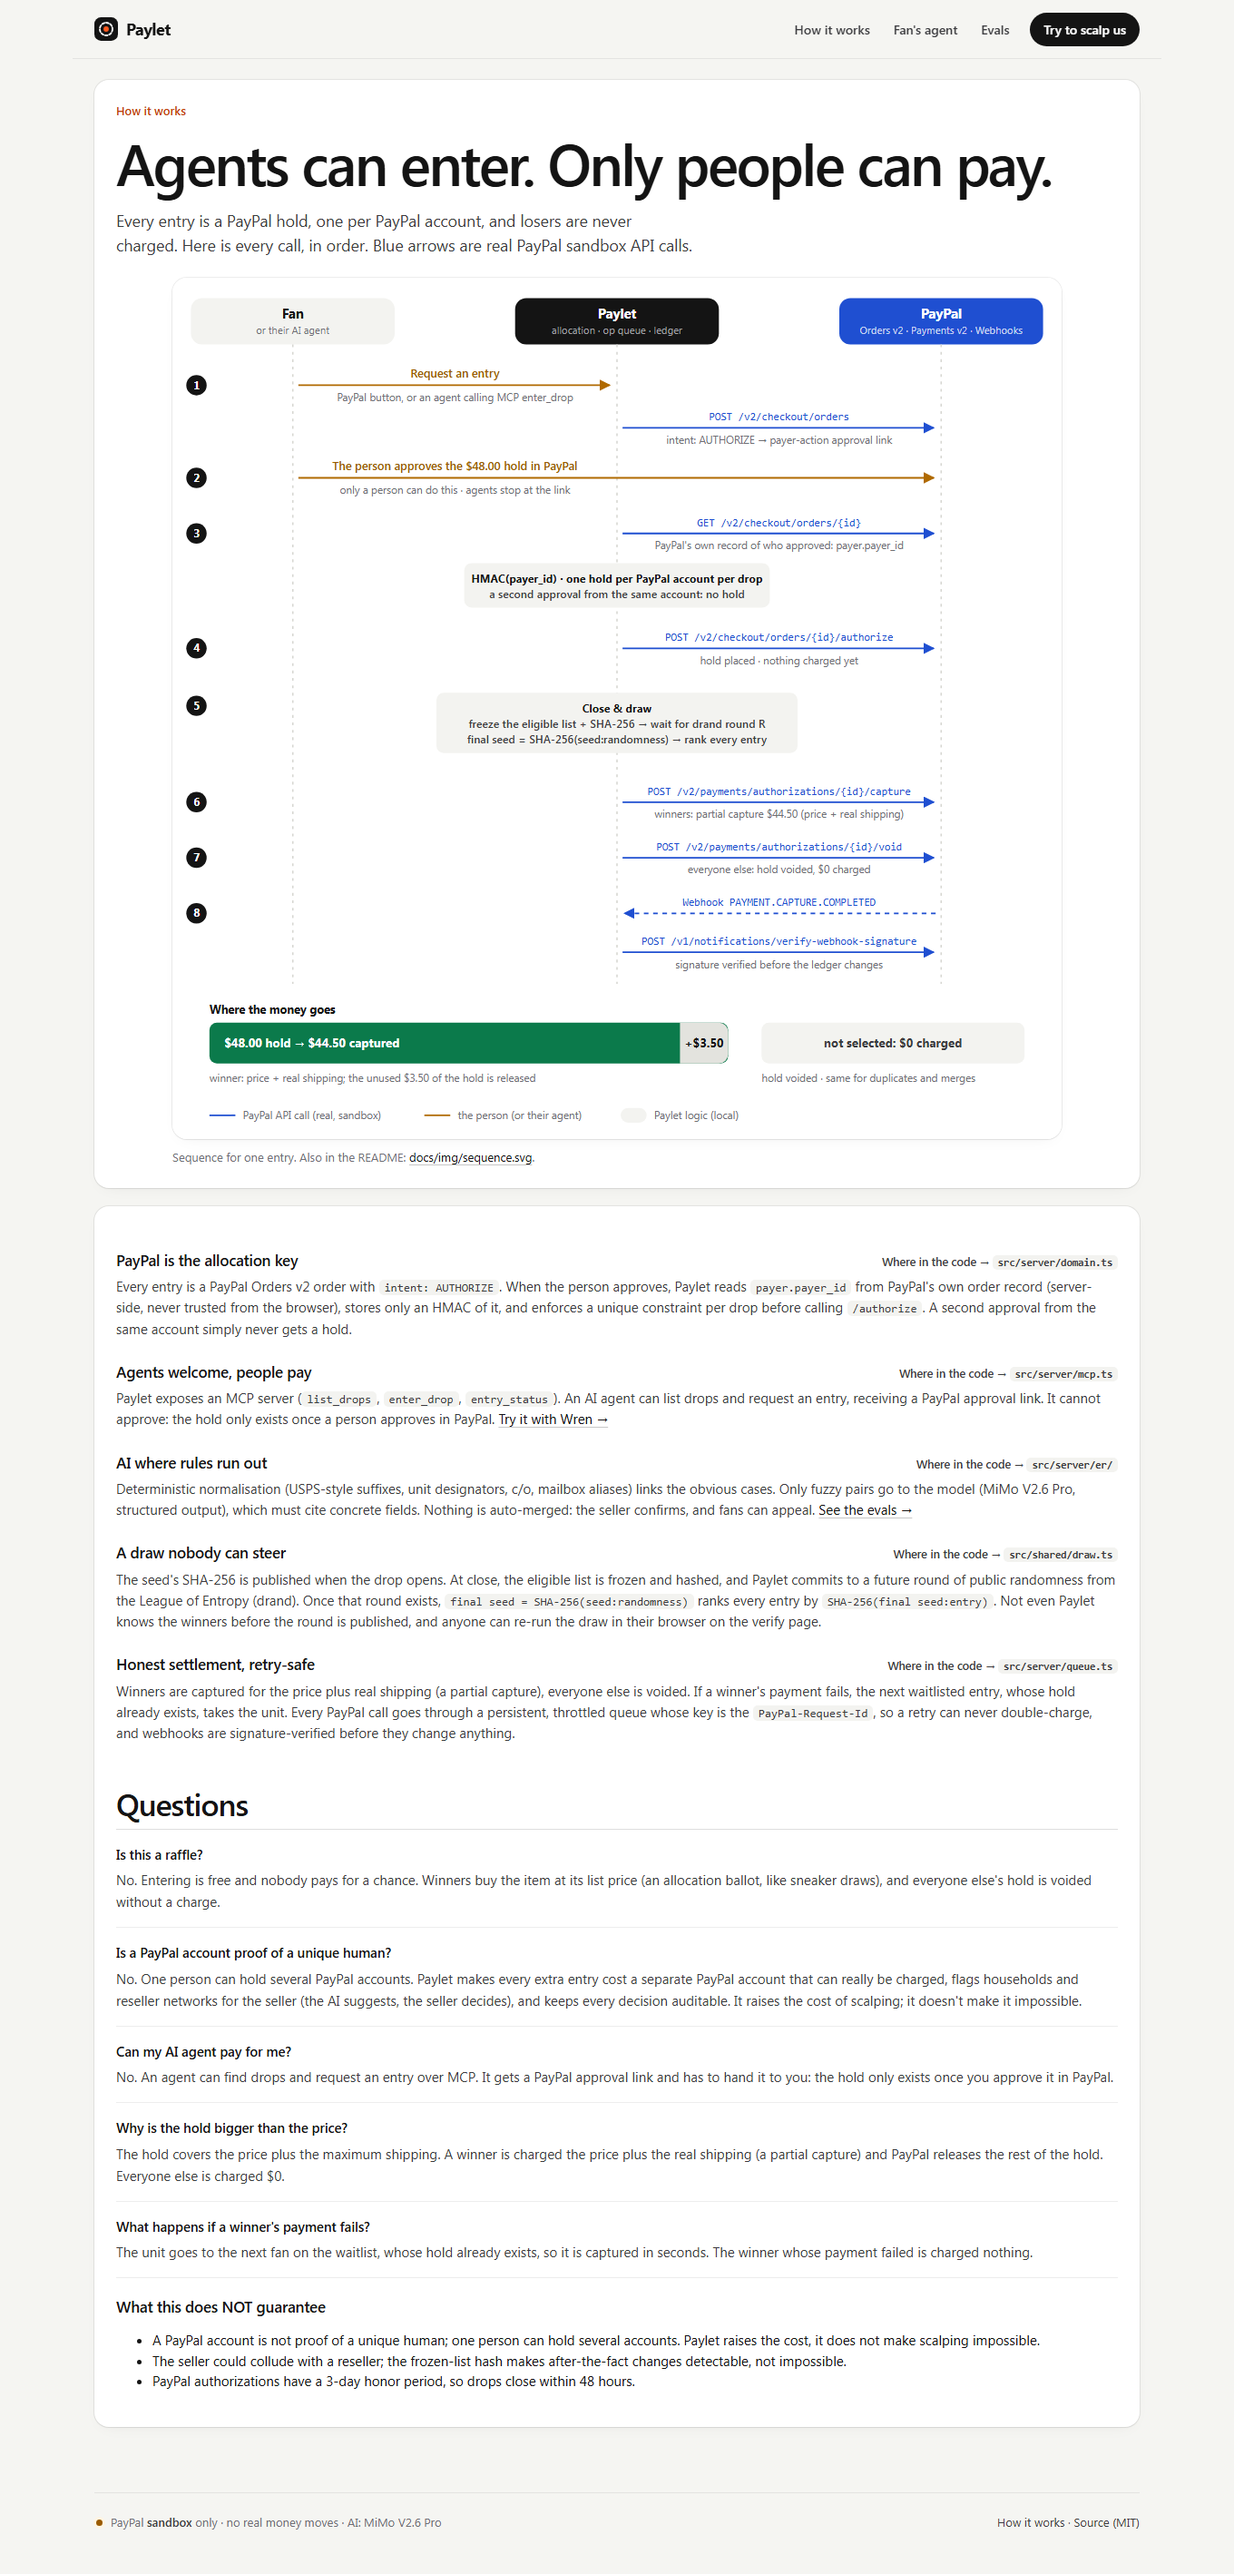
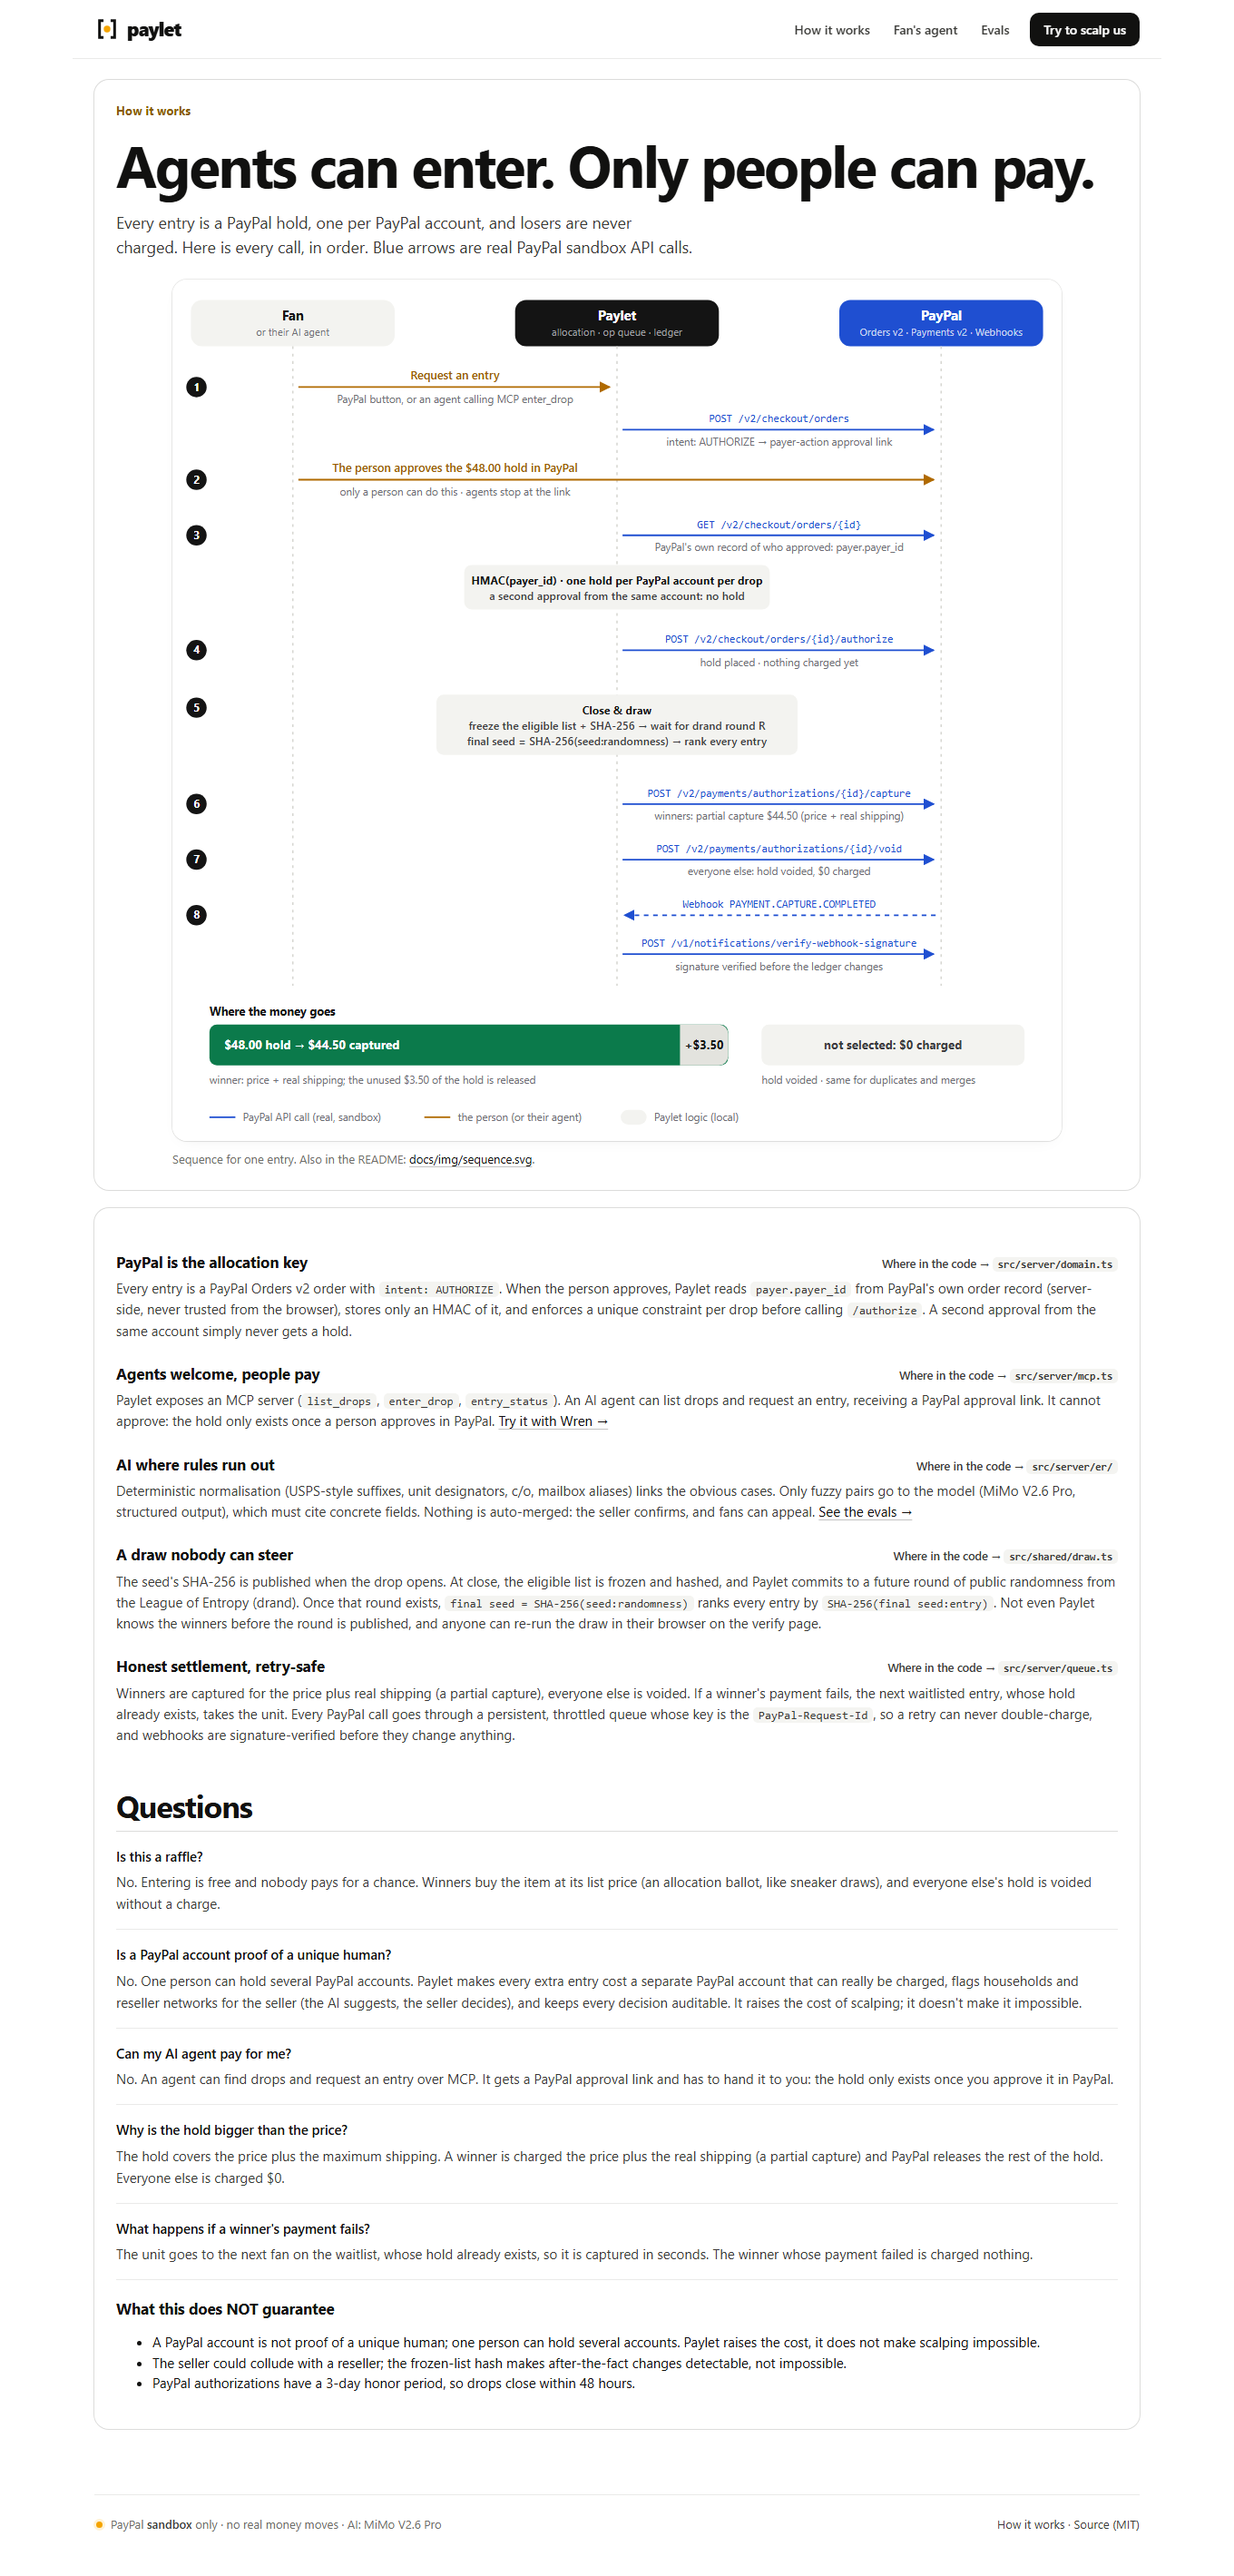
fix(wren): answer within 35 s - per-call timeout and a single attempt for the fan agent; a slow model falls back to the deterministic MCP entry like an outage does (and says so)
Also: video recorder (GPU window off-screen, fonts ready, logo intro, new outro) and editor (chapter labels, ducked music bed, -14 LUFS); gallery from the identity redesign

diff --git a/scripts/record-video.ts b/scripts/record-video.ts
@@ -29,6 +29,7 @@ const PAGE_SETUP = `(() => {
     document.documentElement.style.zoom = onPayPal ? "1.35" : "1.5";
     const s = document.createElement("style");
     s.textContent = \`
+      html{scrollbar-width:none}html::-webkit-scrollbar{display:none}
       #__cur{position:fixed;left:0;top:0;z-index:2147483647;pointer-events:none;will-change:transform;transform:translate(-200px,-200px)}
       #__cur svg{display:block;filter:drop-shadow(0 1px 2px rgba(0,0,0,.35))}
       .__rip{position:fixed;z-index:2147483646;pointer-events:none;width:34px;height:34px;margin:-17px 0 0 -17px;border-radius:50%;
@@ -137,54 +138,105 @@ async function glide(page: Page, px: number, ms: number) {
 
 async function open(page: Page, path: string, settle = 1200) {
   await page.goto(base + path, { waitUntil: "load" }).catch(() => undefined);
+  await page.evaluate("document.fonts.ready").catch(() => undefined);
   await page.mouse.move(W - 160, H / 2 + 40);
   await wait(settle);
 }
 
-const OUTRO = `<!doctype html><html><head><meta charset="utf-8">
-<link href="https://fonts.googleapis.com/css2?family=Inter:opsz,wght@14..32,400..700&display=swap" rel="stylesheet">
+const INTRO = `<!doctype html><html><head><meta charset="utf-8">
+<link href="https://fonts.googleapis.com/css2?family=Archivo:wdth,wght@62..125,100..900&family=JetBrains+Mono:wght@600&display=swap" rel="stylesheet">
 <style>
-  html,body{margin:0;height:100%;background:#f5f5f2;font-family:Inter,system-ui,sans-serif;color:#141414;-webkit-font-smoothing:antialiased}
+  html,body{margin:0;height:100%;background:#fff;font-family:Archivo,system-ui,sans-serif;color:#111110;-webkit-font-smoothing:antialiased}
   body{display:grid;place-items:center}
-  .c{display:grid;justify-items:center;gap:18px;text-align:center}
-  .m{opacity:0;transform:scale(.9);animation:in .9s cubic-bezier(.23,1,.32,1) .1s forwards}
-  .m circle.r{stroke-dasharray:3.4 2.35;animation:spin 6s linear infinite;transform-origin:16px 16px}
-  h1{margin:6px 0 0;font-size:64px;font-weight:650;letter-spacing:-.045em;line-height:1;opacity:0;transform:translateY(8px);animation:in .8s cubic-bezier(.23,1,.32,1) .35s forwards}
-  p{margin:0;font-size:22px;color:#6f6f75;letter-spacing:-.01em;opacity:0;transform:translateY(8px);animation:in .8s cubic-bezier(.23,1,.32,1) .55s forwards}
-  .u{display:flex;gap:10px;margin-top:22px;opacity:0;animation:in .8s cubic-bezier(.23,1,.32,1) .9s forwards}
-  .u span{padding:9px 16px;border-radius:999px;background:#fff;box-shadow:0 0 0 1px rgba(20,20,20,.08),0 6px 20px -10px rgba(20,20,20,.15);font-size:16px;font-weight:550}
-  .u span:first-child{background:#141414;color:#fff;box-shadow:none}
-  small{margin-top:30px;font-size:13px;color:#a1a1a6;opacity:0;animation:in .8s ease 1.3s forwards}
-  @keyframes in{to{opacity:1;transform:none}}
-  @keyframes spin{to{transform:rotate(360deg)}}
+  .c{display:grid;justify-items:center;gap:26px}
+  svg{width:200px;height:200px;overflow:visible}
+  .l{animation:l 1s cubic-bezier(.23,1,.32,1) .25s both}
+  .r{animation:r 1s cubic-bezier(.23,1,.32,1) .25s both}
+  .d{transform-origin:16px 16px;animation:d .7s cubic-bezier(.34,1.56,.64,1) .95s both}
+  @keyframes l{from{transform:translateX(-14px);opacity:0}to{transform:none;opacity:1}}
+  @keyframes r{from{transform:translateX(14px);opacity:0}to{transform:none;opacity:1}}
+  @keyframes d{from{transform:scale(0)}to{transform:scale(1)}}
+  h1{margin:0;font-size:92px;font-weight:800;font-stretch:92%;letter-spacing:-.05em;line-height:1;animation:up .8s cubic-bezier(.23,1,.32,1) 1.35s both}
+  p{margin:0;font:600 20px/1 'JetBrains Mono',monospace;color:#8a5a00;letter-spacing:.02em;animation:up .8s cubic-bezier(.23,1,.32,1) 1.6s both}
+  @keyframes up{from{opacity:0;transform:translateY(10px)}to{opacity:1;transform:none}}
 </style></head><body><div class="c">
-  <svg class="m" width="84" height="84" viewBox="0 0 32 32"><rect width="32" height="32" rx="9" fill="#141414"/><circle class="r" cx="16" cy="16" r="8.6" fill="none" stroke="#fff" stroke-width="2.2" stroke-linecap="round"/><circle cx="16" cy="16" r="3.6" fill="#ff5a1f"/></svg>
-  <h1>Paylet</h1>
-  <p>Fair drops for the agent era. Powered by PayPal.</p>
+  <svg viewBox="0 0 32 32"><path class="l" d="M11.5 5.5H6.5v21h5" fill="none" stroke="#111110" stroke-width="3.4"/><path class="r" d="M20.5 5.5h5v21h-5" fill="none" stroke="#111110" stroke-width="3.4"/><circle class="d" cx="16" cy="16" r="4.2" fill="#f5a400"/></svg>
+  <h1>paylet</h1>
+  <p>FAIR DROPS FOR THE AGENT ERA</p>
+</div></body></html>`;
+
+const OUTRO = `<!doctype html><html><head><meta charset="utf-8">
+<link href="https://fonts.googleapis.com/css2?family=Archivo:wdth,wght@62..125,100..900&family=JetBrains+Mono:wght@600&display=swap" rel="stylesheet">
+<style>
+  html,body{margin:0;height:100%;background:#fff;font-family:Archivo,system-ui,sans-serif;color:#111110;-webkit-font-smoothing:antialiased}
+  body{display:grid;place-items:center}
+  .c{display:grid;justify-items:center;gap:20px;text-align:center}
+  svg{width:96px;height:96px;overflow:visible;animation:up .8s cubic-bezier(.23,1,.32,1) .1s both}
+  h1{margin:4px 0 0;font-size:72px;font-weight:800;font-stretch:92%;letter-spacing:-.05em;line-height:1;animation:up .8s cubic-bezier(.23,1,.32,1) .3s both}
+  .t{margin:0;font-size:26px;font-weight:600;font-stretch:92%;letter-spacing:-.02em;animation:up .8s cubic-bezier(.23,1,.32,1) .5s both}
+  .t b{position:relative;padding:0 .14em;margin:0 .06em}
+  .t b::before,.t b::after{content:"";position:absolute;top:.1em;bottom:0;width:.16em;border:.09em solid #f5a400}
+  .t b::before{left:-.04em;border-right:0}.t b::after{right:-.04em;border-left:0}
+  .u{display:flex;gap:12px;margin-top:18px;animation:up .8s cubic-bezier(.23,1,.32,1) .8s both}
+  .u span{padding:11px 18px;border-radius:10px;font:600 17px/1 'JetBrains Mono',monospace}
+  .u span:first-child{background:#111110;color:#fff}.u span:last-child{background:#f4f4f1}
+  small{margin-top:26px;font:600 13px/1 'JetBrains Mono',monospace;color:#8a5a00;letter-spacing:.04em;animation:up .8s ease 1.2s both}
+  @keyframes up{from{opacity:0;transform:translateY(10px)}to{opacity:1;transform:none}}
+</style></head><body><div class="c">
+  <svg viewBox="0 0 32 32"><path d="M11.5 5.5H6.5v21h5" fill="none" stroke="#111110" stroke-width="3.4"/><path d="M20.5 5.5h5v21h-5" fill="none" stroke="#111110" stroke-width="3.4"/><circle cx="16" cy="16" r="4.2" fill="#f5a400"/></svg>
+  <h1>paylet</h1>
+  <p class="t">One unit per <b>PayPal account</b>. Agents welcome.</p>
   <div class="u"><span>paylet.onrender.com</span><span>github.com/KaraAliOsman/paylet</span></div>
-  <small>PayPal sandbox only · MIT licensed</small>
+  <small>PAYPAL SANDBOX ONLY · MIT LICENSED</small>
 </div></body></html>`;
 
 // HEADED=1: a real window, so Chrome uses the GPU (the animated hero drops to ~9 fps in software rendering)
-const browser = await chromium.launch(process.env.HEADED ? { headless: false, args: ["--ignore-gpu-blocklist", "--enable-gpu-rasterization", "--window-position=0,0"] } : {});
+// The window sits off-screen so no stray mouse or wheel on the desktop can touch it, and Chrome is told to keep
+// painting it at full rate even though it is not visible.
+const browser = await chromium.launch(
+  process.env.HEADED
+    ? {
+        headless: false,
+        args: [
+          "--ignore-gpu-blocklist",
+          "--enable-gpu-rasterization",
+          "--window-position=-3000,0",
+          "--disable-backgrounding-occluded-windows",
+          "--disable-renderer-backgrounding",
+          "--disable-background-timer-throttling",
+        ],
+      }
+    : {},
+);
 // Drop A: the real-money drop (agent + PayPal + duplicate + swarm + real capture). Drop B: scale, AI review, failed payment.
 const A = await post("/api/judge-drop", ADMIN);
 const B = await post("/api/judge-drop", ADMIN);
 await post(`/api/seller/${A.slug}/negative-test`, A.sellerKey, { on: false });
 console.log("drop A", A.slug, "drop B", B.slug);
 
+await scene(browser, "00-intro", async (page) => {
+  await page.setContent(INTRO, { waitUntil: "load" });
+  await page.evaluate("document.fonts.ready");
+  await page.mouse.move(-50, -50);
+  mark("start");
+  await wait(3600);
+});
+
 await scene(browser, "01-home", async (page) => {
   await open(page, "/", 400);
   mark("start");
-  await wait(7500);
-  mark("waited");
+  await wait(7600); // the headline's hold brackets close, the proof ledger replays
+  // hard cuts between sections (a smooth scroll renders at ~15 fps in a recorded browser)
+  await page.evaluate("document.querySelector('.rules').scrollIntoView({ block: 'center' })");
+  mark("rules");
+  await wait(3600);
+  await page.evaluate("document.querySelector('.outcomes').scrollIntoView({ block: 'center' })");
+  mark("outcomes");
+  await wait(600);
   await glideTo(page, page.getByRole("tab", { name: "Not selected" }));
-  mark("tab");
-  await wait(3200);
-  mark("scroll");
-  await glide(page, 720, 2600);
-  mark("flow");
   await wait(2600);
+  mark("flow");
+  await wait(600);
 });
 
 await scene(browser, "02-drop", async (page) => {
@@ -345,6 +397,7 @@ await scene(browser, "08-how", async (page) => {
 
 await scene(browser, "09-outro", async (page) => {
   await page.setContent(OUTRO, { waitUntil: "load" });
+  await page.evaluate("document.fonts.ready");
   await page.mouse.move(-50, -50);
   await wait(800);
   mark("start");

diff --git a/src/server/ai.ts b/src/server/ai.ts
@@ -47,7 +47,15 @@ export function usageSummary() {
 export async function chat(
   purpose: string,
   messages: ChatMessage[],
-  opts: { tools?: ToolDef[]; jsonSchema?: { name: string; schema: Record<string, unknown> }; maxTokens?: number; temperature?: number } = {},
+  opts: {
+    tools?: ToolDef[];
+    jsonSchema?: { name: string; schema: Record<string, unknown> };
+    maxTokens?: number;
+    temperature?: number;
+    /** per-attempt timeout (default 90 s) and number of attempts (default 3): interactive callers pass tighter values */
+    timeoutMs?: number;
+    attempts?: number;
+  } = {},
 ): Promise<ChatMessage> {
   if (!aiConfigured()) throw new Error("AI_API_KEY not configured");
   const t0 = Date.now();
@@ -61,7 +69,7 @@ export async function chat(
   if (opts.jsonSchema) body.response_format = { type: "json_schema", json_schema: { name: opts.jsonSchema.name, strict: true, schema: opts.jsonSchema.schema } };
 
   let lastErr: unknown;
-  for (let attempt = 0; attempt < 3; attempt++) {
+  for (let attempt = 0; attempt < (opts.attempts ?? 3); attempt++) {
     // reserve the budget synchronously (no await between check and insert), one row per attempt
     if (callsToday(purpose) >= capFor(purpose) || callsToday() >= env.AI_DAILY_CALL_LIMIT) throw new BudgetExceeded("daily AI budget reached");
     const rowId = db.prepare("INSERT INTO llm_usage(ts, purpose, ms) VALUES(?, ?, 0)").run(now(), purpose).lastInsertRowid;
@@ -70,7 +78,7 @@ export async function chat(
         method: "POST",
         headers: { Authorization: `Bearer ${env.AI_API_KEY}`, "Content-Type": "application/json" },
         body: JSON.stringify(body),
-        signal: AbortSignal.timeout(90_000),
+        signal: AbortSignal.timeout(opts.timeoutMs ?? 90_000),
       });
       if (res.status === 429 || res.status >= 500) throw new Error(`AI HTTP ${res.status}`);
       const j = (await res.json()) as any;
@@ -83,8 +91,9 @@ export async function chat(
       );
       return j.choices[0].message as ChatMessage;
     } catch (e) {
-      lastErr = e;
-      await new Promise((r) => setTimeout(r, 800 * (attempt + 1)));
+      // a timeout reads as an AI failure like any other ("AI ..."), so callers can fall back the same way
+      lastErr = (e as Error)?.name === "TimeoutError" ? new Error(`AI timeout after ${opts.timeoutMs ?? 90_000} ms`) : e;
+      if (attempt + 1 < (opts.attempts ?? 3)) await new Promise((r) => setTimeout(r, 800 * (attempt + 1)));
     }
   }
   throw lastErr;

diff --git a/src/server/agent.ts b/src/server/agent.ts
@@ -51,7 +51,10 @@ Rules you must follow:
 - Be brief and warm: two or three short sentences, plain text.`;
 
 export const HONEST_ENTRY = "I've requested your entry. It only counts once you approve the hold in PayPal.";
-export const AI_OFFLINE_NOTE = "(My language model is offline right now, so I used my fixed rules for this one.)";
+export const AI_OFFLINE_NOTE = "(My language model didn't answer in time, so I used my fixed rules for this one.)";
+
+/** Wren answers within this budget; past it, a pasted drop link is entered deterministically over MCP. */
+export const AGENT_DEADLINE_MS = 35_000;
 
 /** A drop slug in a message: a pasted drop link (…/d/<slug>) or a bare slug like "ember-glaze-mug-8f3a". */
 export function slugIn(text: string): string | null {
@@ -171,8 +174,11 @@ export async function runFanAgent(history: { role: "user" | "assistant"; content
     }));
     const messages: ChatMessage[] = [{ role: "system", content: SYSTEM }, ...history.slice(-8)];
     let entered = false;
+    const deadline = Date.now() + AGENT_DEADLINE_MS;
     for (let step = 0; step < 4; step++) {
-      const msg = await chat("fan_agent", messages, { tools: toolDefs, maxTokens: 700, temperature: 0.3 });
+      const left = deadline - Date.now();
+      if (left < 2_000) throw new Error("AI deadline reached");
+      const msg = await chat("fan_agent", messages, { tools: toolDefs, maxTokens: 700, temperature: 0.3, timeoutMs: Math.min(25_000, left), attempts: 1 });
       messages.push({ role: "assistant", content: msg.content ?? "", tool_calls: msg.tool_calls });
       if (!msg.tool_calls?.length) return finish(msg.content ?? "");
       for (const call of msg.tool_calls) {

diff --git a/tests/agent.test.ts b/tests/agent.test.ts
@@ -144,6 +144,16 @@ describe("P0-04 / P2-02 Wren over MCP", () => {
     expect(agent.slugIn("what drops are open?")).toBeNull();
   });
 
+  it("model too slow (timeout) with a pasted drop link: same deterministic entry, so a judge never waits minutes", async () => {
+    const drop = await domain.createDrop({ ...domain.SHOWCASE, kind: "judge" });
+    script.replies.push(new Error("AI timeout after 25000 ms"));
+    const r = await chat(`Get me into this drop: https://paylet.onrender.com/d/${drop.slug}`);
+    expect(r.error).toBeUndefined();
+    expect(r.handoff?.title).toBe("Tidepool");
+    expect(r.reply).toContain(agent.AI_OFFLINE_NOTE);
+    expect(agent.AGENT_DEADLINE_MS).toBeLessThanOrEqual(40_000);
+  });
+
   it("model unreachable before anything happened: the honest error reply (HTTP 200, error: true)", async () => {
     script.replies.push(new Error("AI HTTP 503"));
     const r = await chat("What drops are open?");
